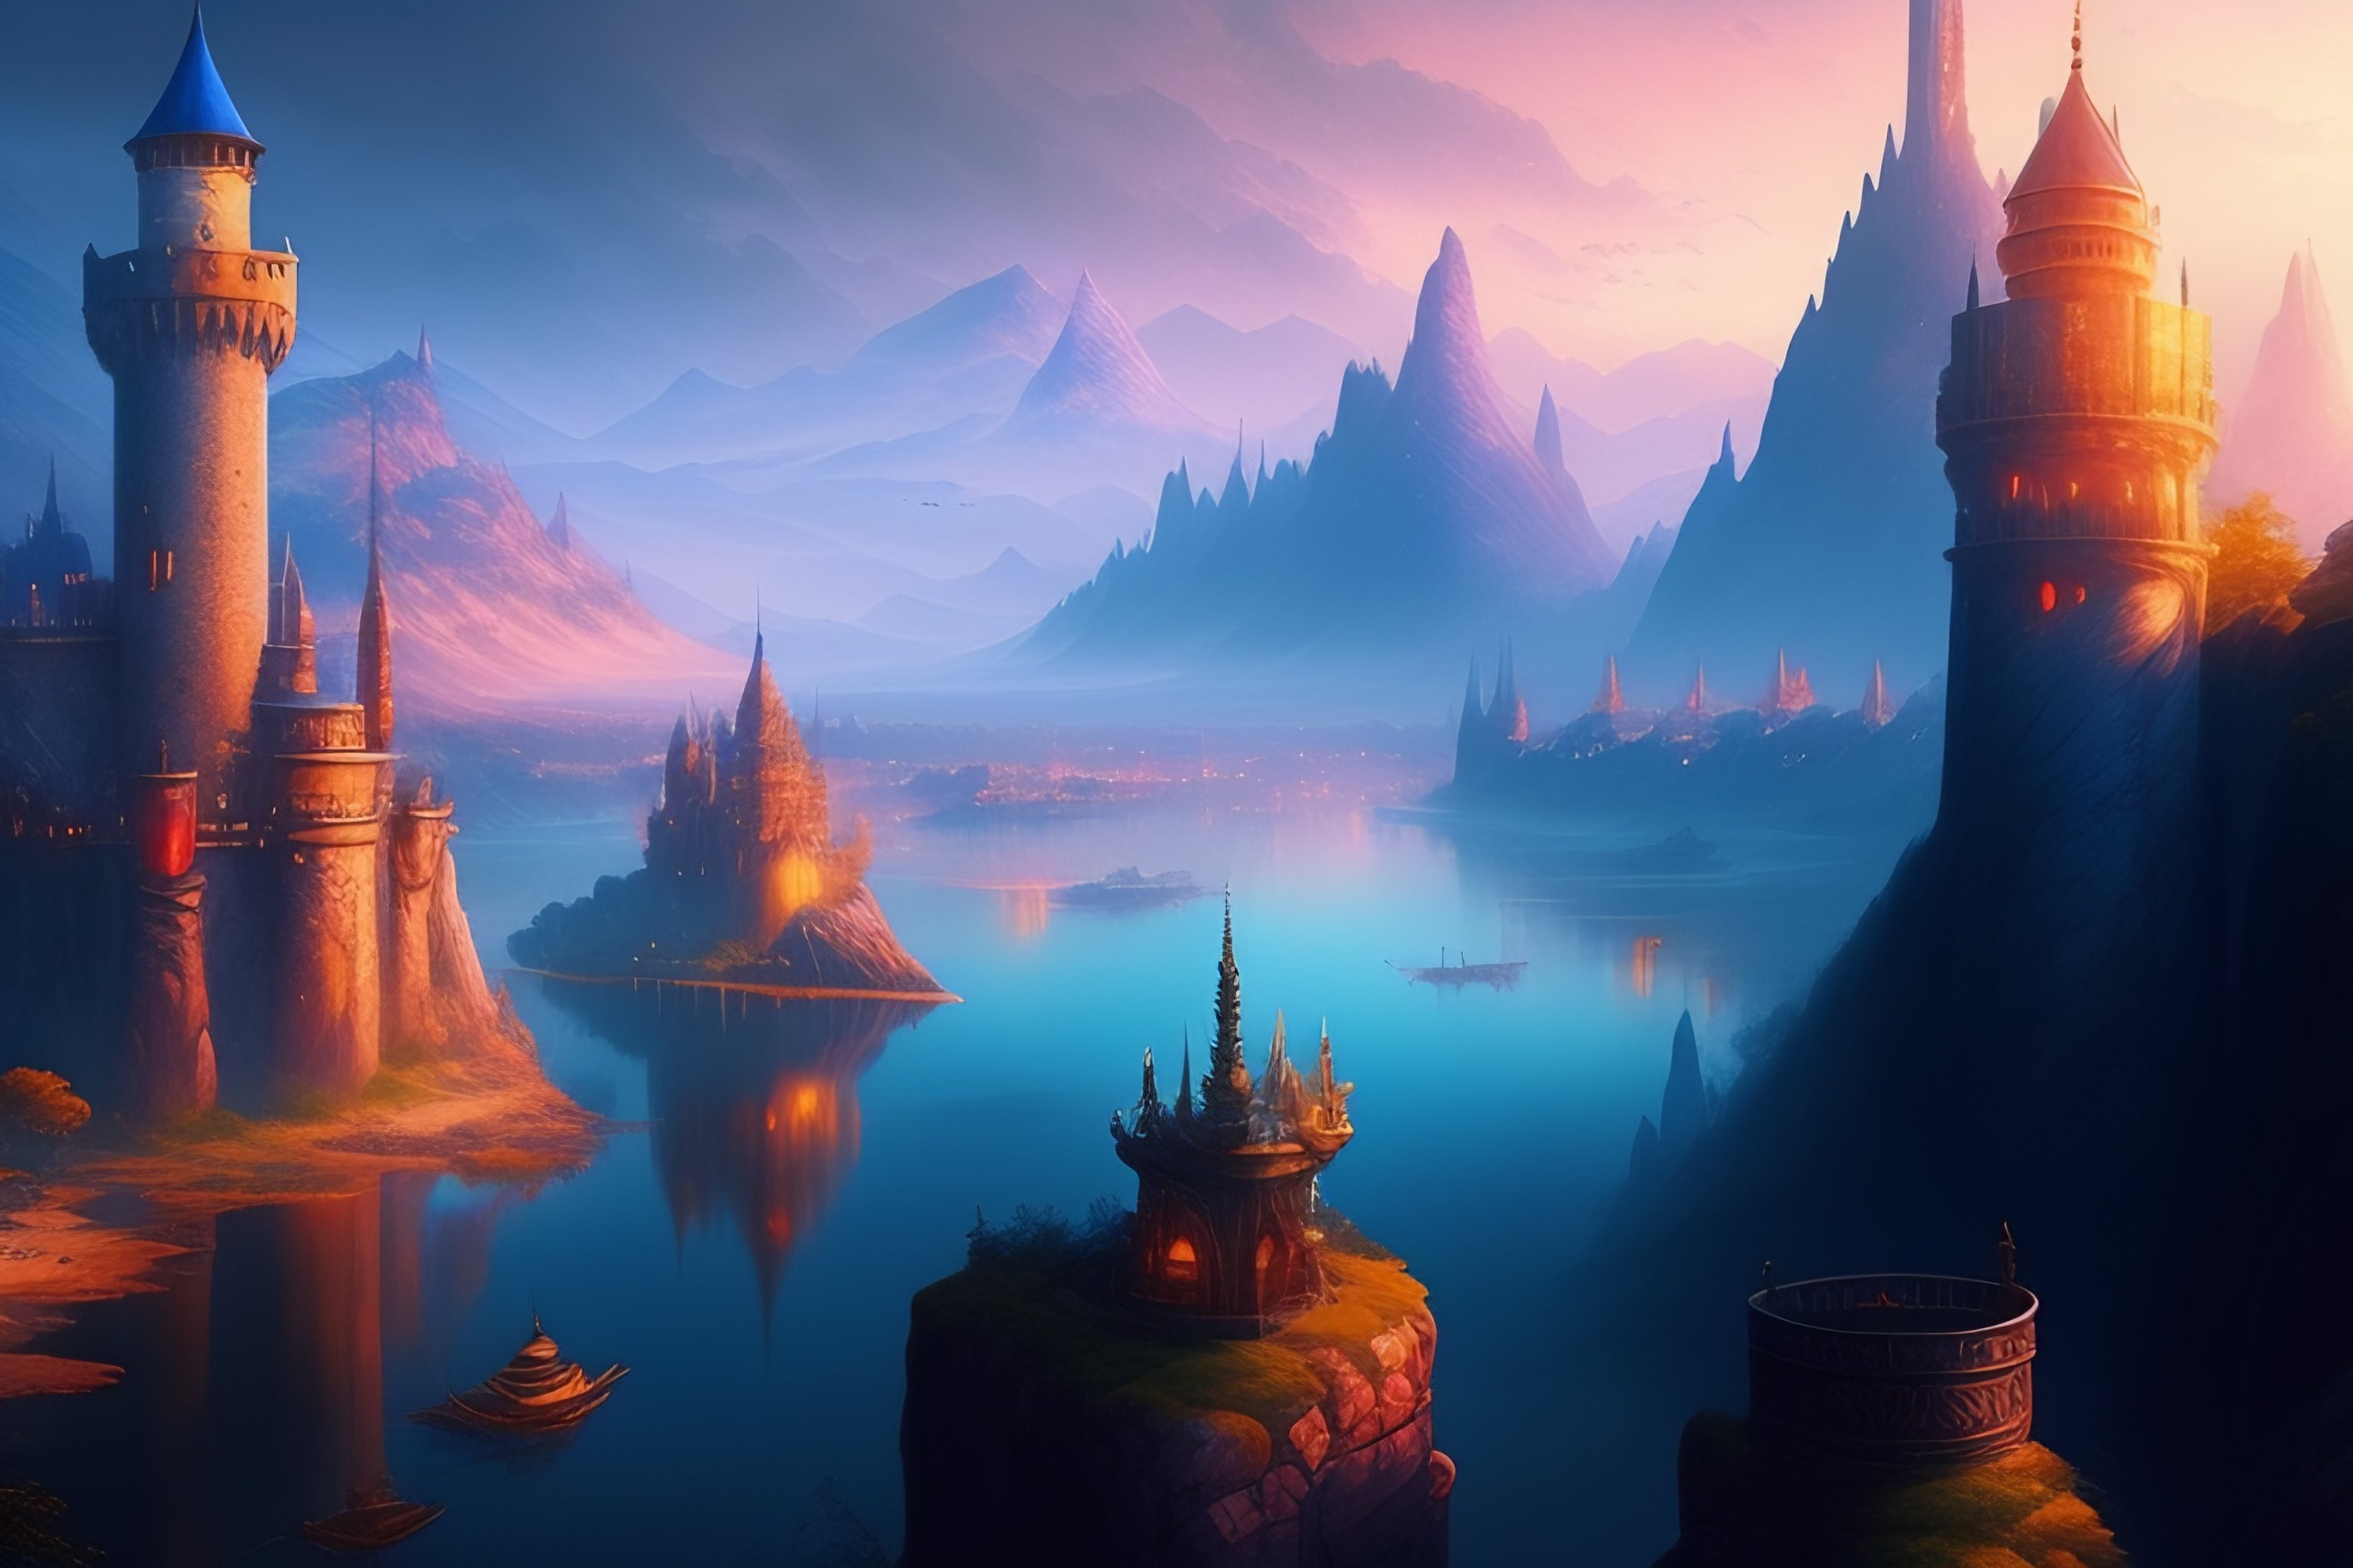
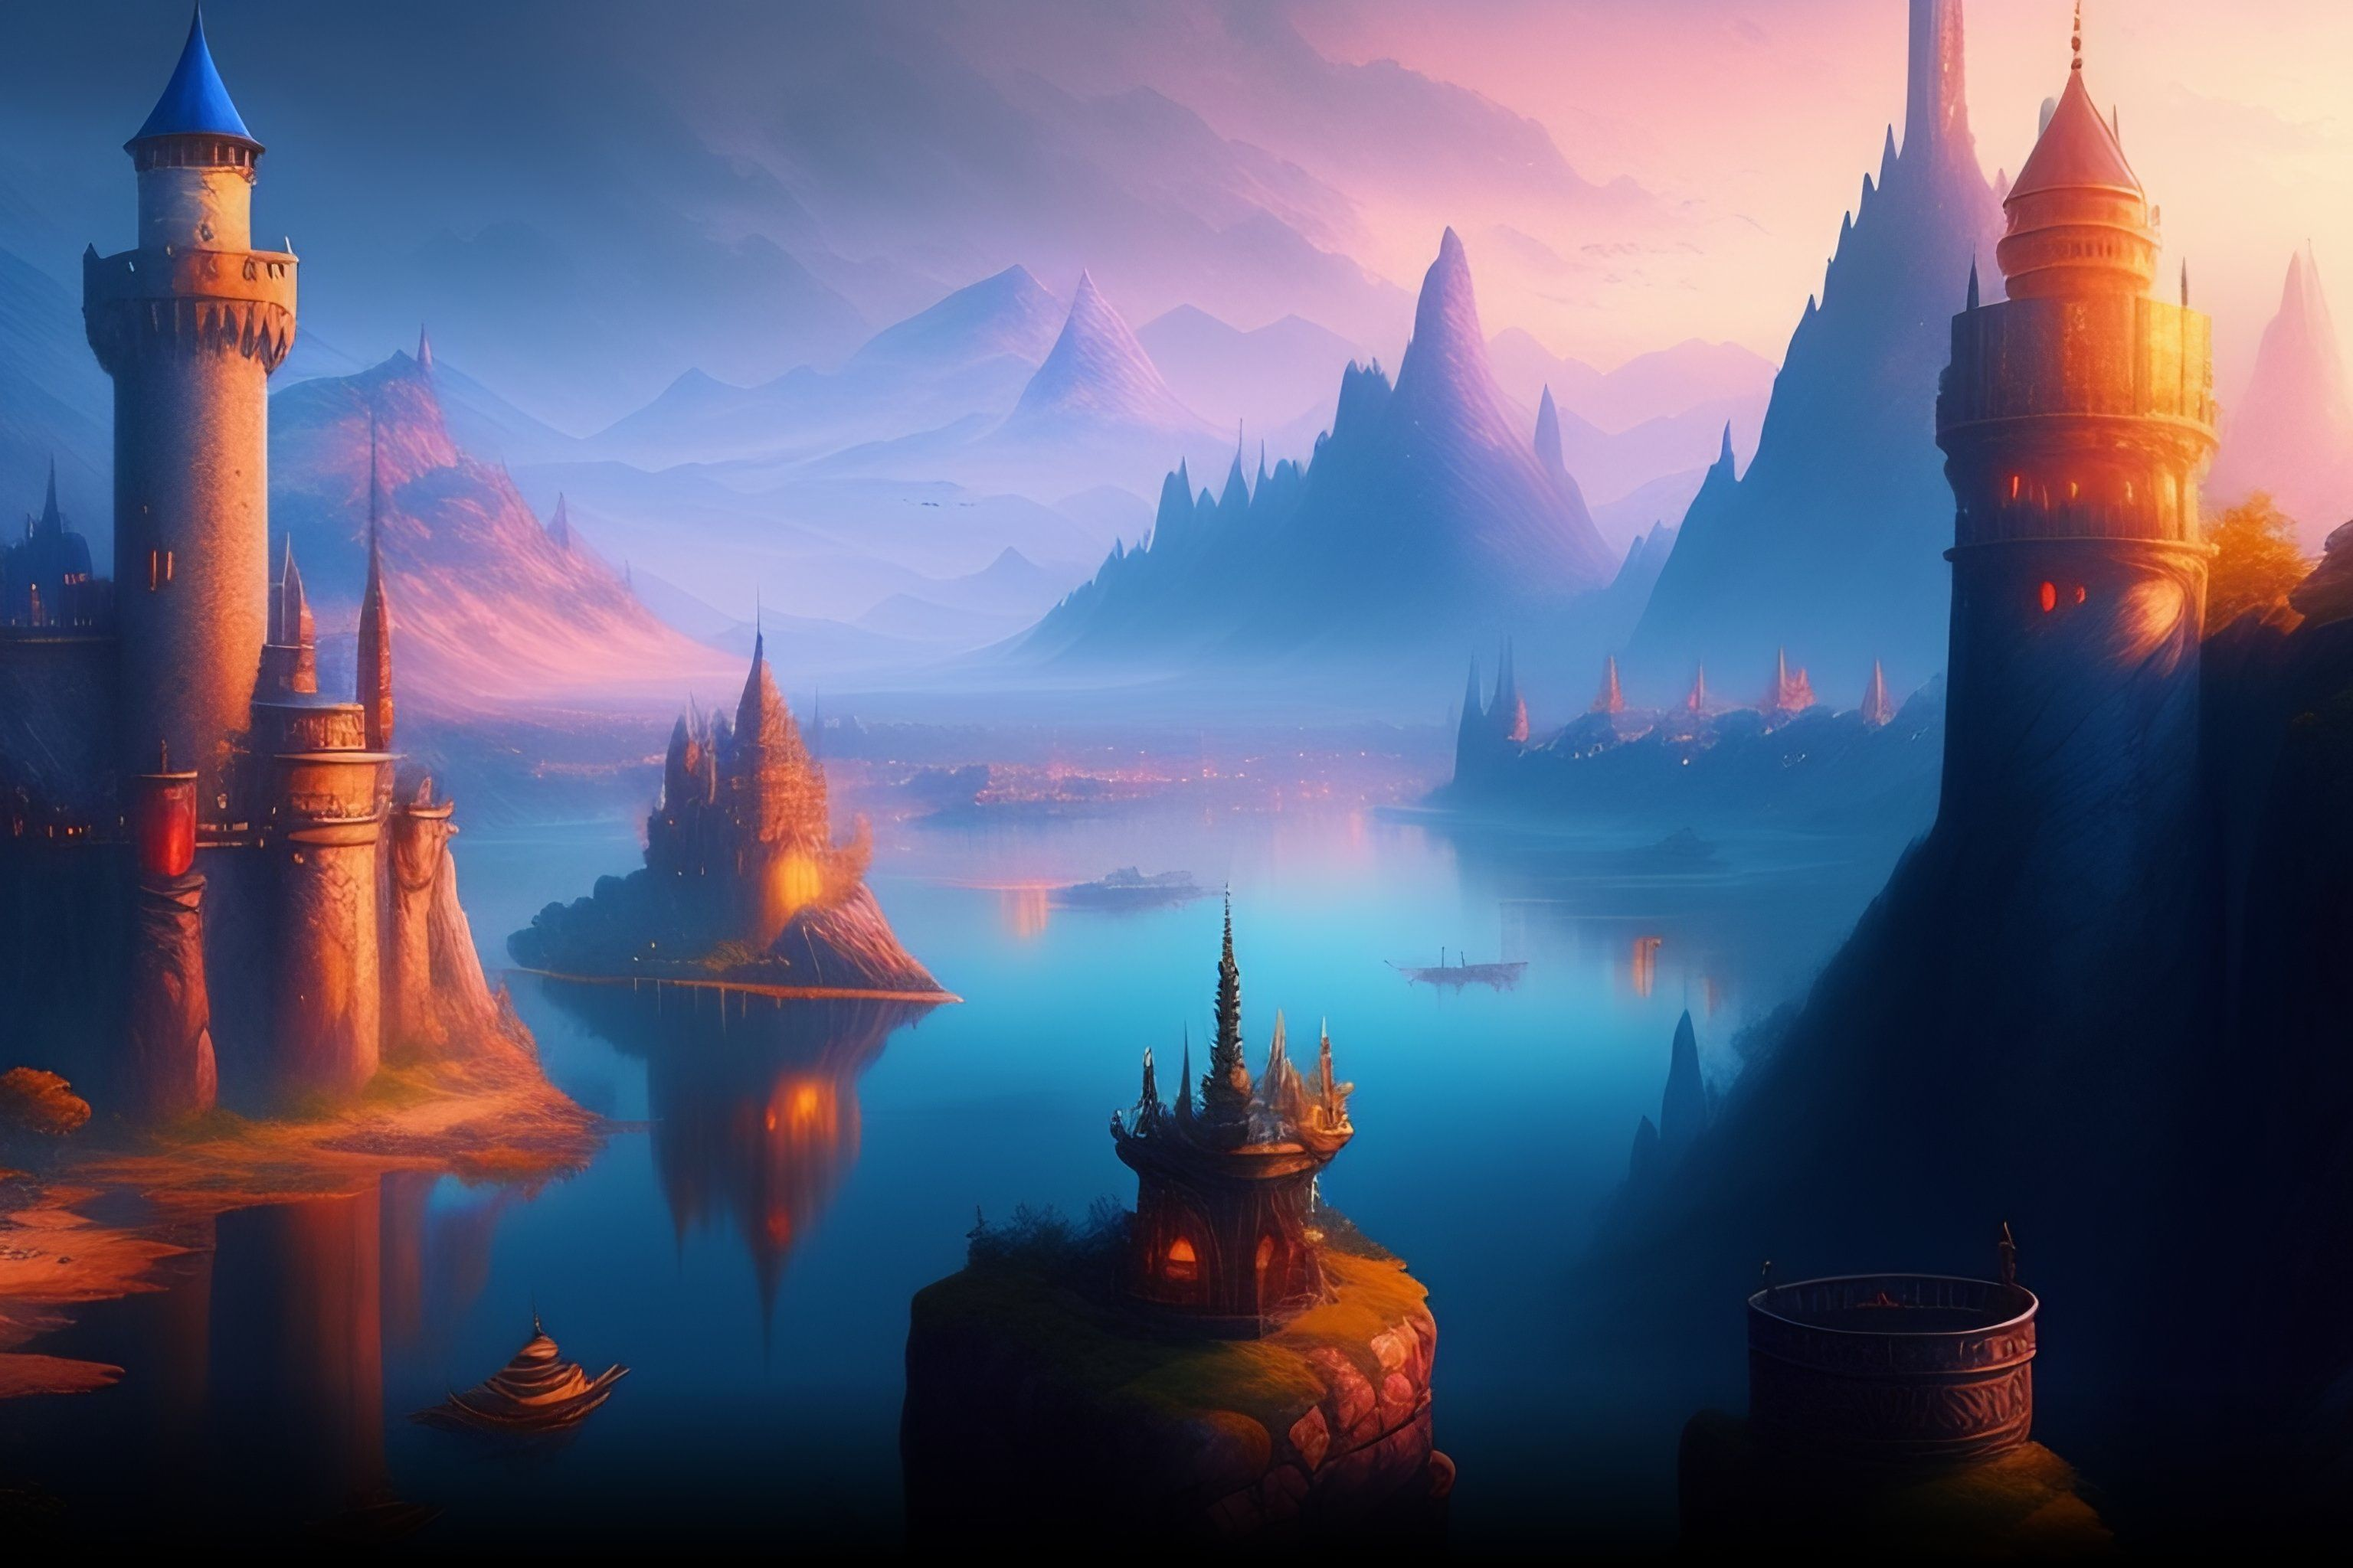
Update page background

Changed region(s): [[0.0312, 0.9062, 0.4062, 1.0], [0.5, 0.875, 0.7188, 1.0], [0.8125, 0.875, 0.9375, 1.0]]

diff --git a/src/App.svelte b/src/App.svelte
@@ -40,7 +40,7 @@
 
 <style>
 	:global(body) {
-		background-image: url(../pictures/pagebackground.jpg);
+		background: url(../pictures/pagebackground.jpg) no-repeat, no-repeat #000000;
 		background-position: center top;
     	background-size: 100% auto;
 	}
